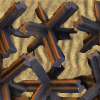
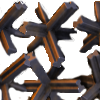
transparency added to teazel and plants + map tick came to gameFrame and modularized so now components can go under plants

diff --git a/src/game/template/bufferstrategy/GameFrame.java b/src/game/template/bufferstrategy/GameFrame.java
@@ -1,6 +1,7 @@
 /*** In The Name of Allah ***/
 package game.template.bufferstrategy;
 
+import com.sun.deploy.panel.SpecialTableRenderer;
 import game.Utils.SharedData;
 import game.Utils.Utility;
 import game.elements.*;
@@ -108,16 +109,57 @@ public class GameFrame extends JFrame
         AffineTransform gameTransform = g2d.getTransform();
 
         runAnimations();
-
-        //render map
-        state.objects.getMap().render(g2d);
-
+        drawSoil(state, g2d);
+        drawHardWalls(state, g2d);
+        drawSoftWalls(state, g2d);
+        drawTeazel(state, g2d);
         drawBullets(state, g2d, gameTransform);
         drawPlayers(state, g2d, gameTransform);
         drawAITanks(state, g2d, gameTransform);
         drawTurrets(state, g2d, gameTransform);
         drawBuriedRobots(state, g2d, gameTransform);
         drawUpgrades(state, g2d);
+        drawPlants(state, g2d);
+    }
+
+    private void drawSoil(GameState state, Graphics2D g2d)
+    {
+        for (int i = 0; i < state.objects.getMap().getSoil().size(); i++)
+        {
+            g2d.drawImage(Utility.soil, (int) state.objects.getMap().getSoil().get(i).getX(), (int) state.objects.getMap().getSoil().get(i).getY(), null);
+        }
+    }
+
+    private void drawSoftWalls(GameState state, Graphics2D g2d)
+    {
+        for (int i = 0; i < state.objects.getMap().getSoftWall().size(); i++)
+        {
+            g2d.drawImage(Utility.softWall, (int) state.objects.getMap().getSoftWall().get(i).getX(), (int) state.objects.getMap().getSoftWall().get(i).getY(), null);
+        }
+    }
+
+    private void drawTeazel(GameState state, Graphics2D g2d)
+    {
+        for (int i = 0; i < state.objects.getMap().getTeazel().size(); i++)
+        {
+            g2d.drawImage(Utility.teazel, (int) state.objects.getMap().getTeazel().get(i).getX(), (int) state.objects.getMap().getTeazel().get(i).getY(), null);
+        }
+    }
+
+    private void drawPlants(GameState state, Graphics2D g2d)
+    {
+        for (int i = 0; i < state.objects.getMap().getPlant().size(); i++)
+        {
+            g2d.drawImage(Utility.plant, (int) state.objects.getMap().getPlant().get(i).getX(), (int) state.objects.getMap().getPlant().get(i).getY(), null);
+        }
+    }
+
+    private void drawHardWalls(GameState state, Graphics2D g2d)
+    {
+        for (int i = 0; i < state.objects.getMap().getHardWall().size(); i++)
+        {
+            g2d.drawImage(Utility.hardWall, (int) state.objects.getMap().getHardWall().get(i).getX(), (int) state.objects.getMap().getHardWall().get(i).getY(), null);
+        }
     }
 
     private void drawBullets(GameState state, Graphics2D g2d, AffineTransform gameTransform)

diff --git a/src/game/map/Map.java b/src/game/map/Map.java
@@ -42,6 +42,7 @@ public class Map
                 }
                 else if ((red == 0) && (green == 255) && (blue == 0)) //Plant
                 {
+                    soil.add(new Soil(xx * 100, yy * 100));
                     plant.add(new Plant(xx * 100, yy * 100));
                 }
                 else if ((red == 255) && (green == 255) && (blue == 255)) //Soil
@@ -50,6 +51,7 @@ public class Map
                 }
                 else if ((red == 255) && (green == 0) && (blue == 255)) //Teazel
                 {
+                    soil.add(new Soil(xx * 100, yy * 100));
                     teazel.add(new Teazel(xx * 100, yy * 100));
                 }
                 /*else if ((red == 208) && (green == 135) && (blue == 190)) //player
@@ -95,30 +97,6 @@ public class Map
                     objects.getTurrets().add(new Turret(xx * 100, yy * 100, objects.getPlayers(), ObjectId.MachineGun));
                 }
             }
-        }
-    }
-
-    public void render(Graphics2D g2d)
-    {
-        for (int i = 0; i < hardWall.size(); i++)
-        {
-            g2d.drawImage(Utility.hardWall, (int) hardWall.get(i).getX(), (int) hardWall.get(i).getY(), null);
-        }
-        for (int i = 0; i < softWall.size(); i++)
-        {
-            g2d.drawImage(Utility.softWall, (int) softWall.get(i).getX(), (int) softWall.get(i).getY(), null);
-        }
-        for (int i = 0; i < plant.size(); i++)
-        {
-            g2d.drawImage(Utility.plant, (int) plant.get(i).getX(), (int) plant.get(i).getY(), null);
-        }
-        for (int i = 0; i < teazel.size(); i++)
-        {
-            g2d.drawImage(Utility.teazel, (int) teazel.get(i).getX(), (int) teazel.get(i).getY(), null);
-        }
-        for (int i = 0; i < soil.size(); i++)
-        {
-            g2d.drawImage(Utility.soil, (int) soil.get(i).getX(), (int) soil.get(i).getY(), null);
         }
     }
 
